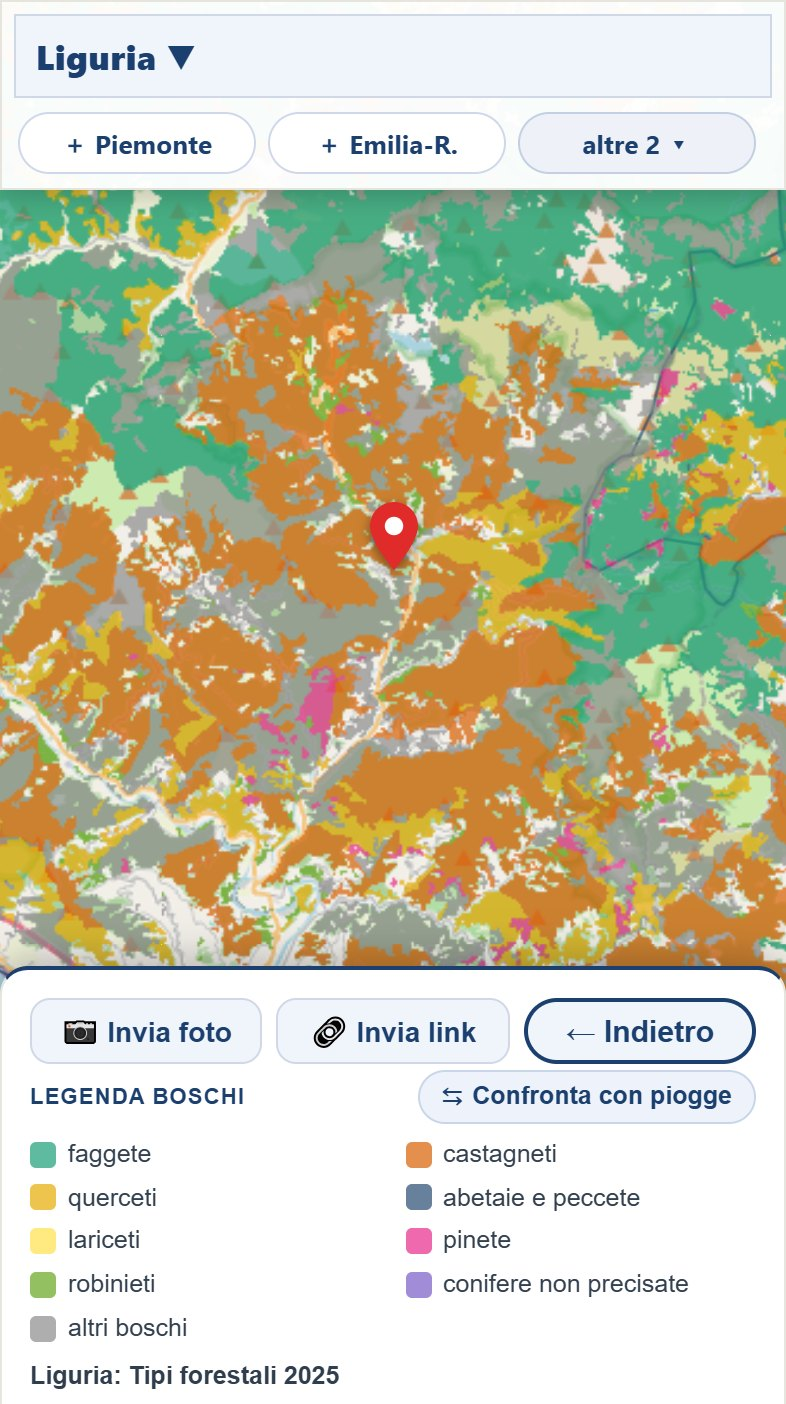
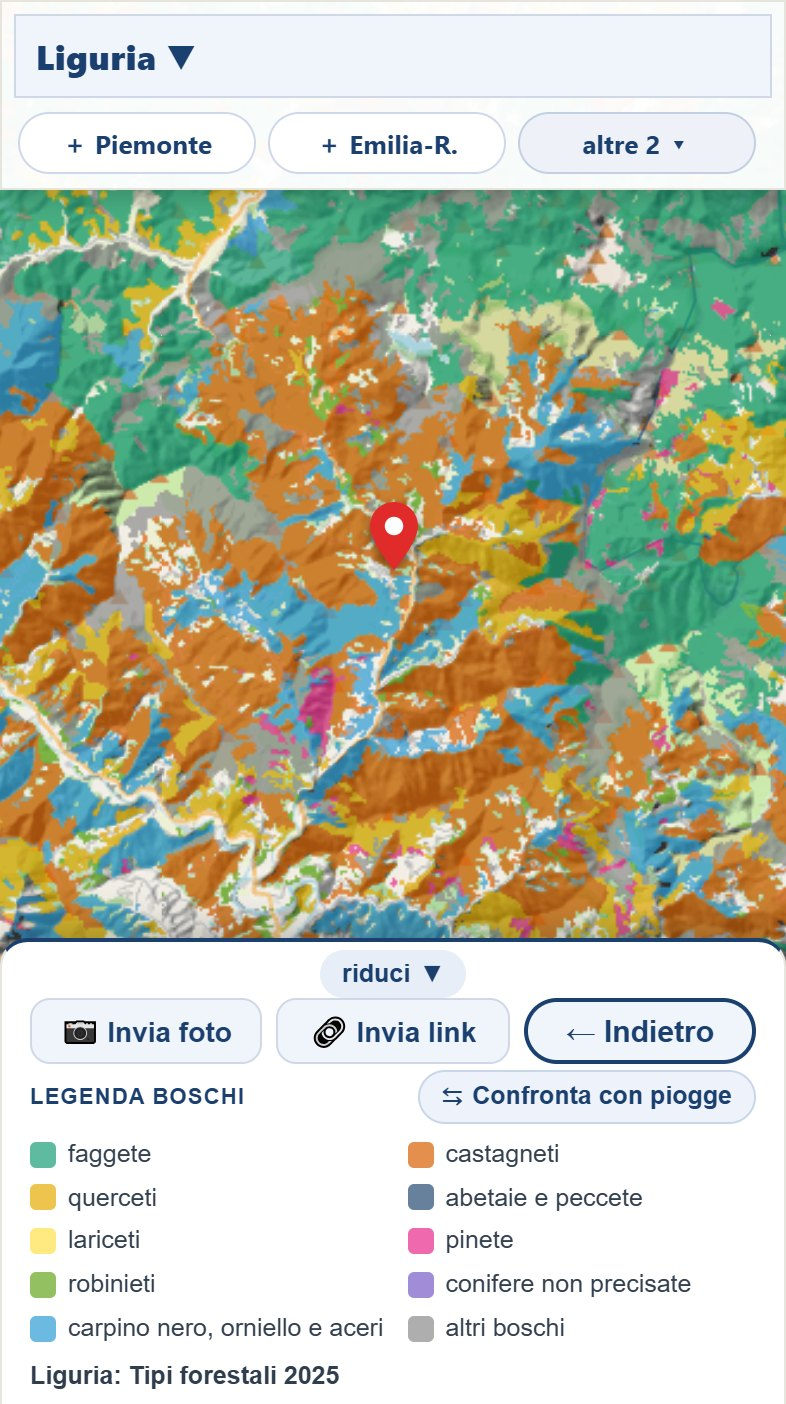
Guida del rilievo, credito TINITALY, rilievo subito anche a zoom frazionari
- Guida, sezione «La mappa boschi»: novita' del 24/9, dieci gruppi,
  «Toccando un punto», «Confrontare pioggia e boschi», «Il rilievo», tabella
  con carpino nero e conifere non precisate; foto rifatte col rilievo e una
  nuova della nuvoletta.
- Crediti della mappa e fonti.html: TINITALY 1.1, INGV (CC BY 4.0), che serve
  rilievo, quota, versante e pendenza e non era citato.
- Il rilievo non usa piu' redraw(): quello di Leaflet non arrotonda lo zoom,
  e a zoom 7,25 o 11,25 chiedeva tessere inesistenti fino allo zoom seguente.

diff --git a/guida/index.html b/guida/index.html
@@ -257,8 +257,9 @@ td:first-child{font-weight:600;color:#2c3e54;white-space:nowrap}
      Si tengono le ultime otto o nove e si aggiorna la data del titolo. -->
 <div class="upd">
   <div class="tit"><span class="tag">NOVITÀ</span><b>Ultimi aggiornamenti</b>
-    <span class="quando">19 settembre 2026</span></div>
+    <span class="quando">24 settembre 2026</span></div>
   <ul>
+    <li><span class="data">24 set</span><span><a href="#boschi">Il rilievo nella mappa boschi</a>: monti e valli in ombra sotto i colori, e toccando un punto leggi quota, versante e pendenza.</span></li>
     <li><span class="data">19 set</span><span><a href="#boschi">La mappa boschi in tutta Italia</a>: ventuno regioni, e un tocco su un punto ti dice che bosco è.</span></li>
     <li><span class="data">19 set</span><span><a href="#boschi">Confronta pioggia e boschi</a>: trascini la barra, a sinistra dove ha piovuto e a destra che bosco c'è.</span></li>
     <li><span class="data">18 set</span><span><a href="#boschi">La mappa boschi al Sud</a>: da oggi anche in Abruzzo, Puglia, Basilicata e Sicilia, tredici regioni in tutto.</span></li>
@@ -267,7 +268,6 @@ td:first-child{font-weight:600;color:#2c3e54;white-space:nowrap}
     <li><span class="data">13 set</span><span><a href="#pagine">Dove ha piovuto, zona per zona</a>: la pioggia di ieri, degli ultimi 7 e 30 giorni in Garfagnana, Val Trebbia, Sila e altre centoundici zone.</span></li>
     <li><span class="data">12 set</span><span><a href="#misure">Quanto forte è piovuto</a>: per ogni giornata di pioggia forte, in quante ore è caduta e la punta in un'ora.</span></li>
     <li><span class="data">9 set</span><span><a href="#pagine">Il nuovo indice «Piogge per funghi»</a>, con la classifica delle località più bagnate d'Italia.</span></li>
-    <li><span class="data">3 set</span><span><a href="#pagine">Le pagine di zona</a>: Garfagnana, Val Trebbia, Sila e altre centodieci, ognuna coi suoi pluviometri.</span></li>
   </ul>
 </div>
 
@@ -455,13 +455,13 @@ td:first-child{font-weight:600;color:#2c3e54;white-space:nowrap}
 <p class="mini">La fonte è il composito radar europeo EUMETNET OPERA, 155 radar in 24 paesi, servito dal progetto aperto LibreWXR.</p>
 
 <h2 id="boschi"><span class="n">11</span>La mappa boschi</h2>
-<p>La pioggia dice <i>quando</i> andare, il bosco dice <i>dove</i>: faggete, castagneti, querceti e abetaie non danno gli stessi funghi. Il tasto <span class="ui">🌲 Mappa boschi</span>, accanto a quello del radar, cambia modo: la pioggia e i pallini spariscono, e <b>i boschi si colorano per tipo</b>, in otto gruppi.</p>
+<p>La pioggia dice <i>quando</i> andare, il bosco dice <i>dove</i>: faggete, castagneti, querceti e abetaie non danno gli stessi funghi. Il tasto <span class="ui">🌲 Mappa boschi</span>, accanto a quello del radar, cambia modo: la pioggia e i pallini spariscono, e <b>i boschi si colorano per tipo</b>, in dieci gruppi, sopra il rilievo di monti e valli.</p>
 
 <div class="bosco"><b>Vale solo per alcune regioni.</b> Per ora la mappa boschi c'è in ventuno: <b>Piemonte, Valle d'Aosta, Lombardia, Trentino, Alto Adige, Veneto, Friuli Venezia Giulia, Liguria, Emilia-Romagna, Lazio, Abruzzo, Puglia, Basilicata, Sicilia, Marche, Umbria, Molise, Campania, Calabria, Toscana e Sardegna</b>. In Basilicata la carta è meno dettagliata: si vedono le macchie di bosco, non il singolo bosco. In Marche, Umbria, Molise, Campania, Calabria, Toscana e Sardegna la fonte non è una carta forestale della Regione ma la <b>Carta della Natura di ISPRA</b>, che descrive gli habitat: i tipi di bosco ci sono tutti, raccolti negli stessi colori. In Toscana e Sardegna quella carta è a scala 1:50.000, quindi meno fine; se la Regione pubblicherà una carta forestale più dettagliata, la useremo. Nelle altre regioni, e all'estero, i colori non ci sono e la legenda lo dice: «carta non ancora disponibile». Non riempiamo i vuoti con carte approssimative: una regione entra quando c'è una carta dei tipi di bosco abbastanza precisa.</div>
 
 <figure class="media">
-  <img src="boschi.jpg" alt="La mappa boschi in Val d'Aveto, fra Liguria ed Emilia: faggete in verde, castagneti in arancio, querceti in ocra, col pannello della legenda" width="1000" height="663" loading="lazy">
-  <figcaption>La Val d'Aveto, a cavallo fra Liguria ed Emilia: faggete in verde, castagneti in arancio, querceti in ocra. Sotto la legenda, le due carte usate. Al confine fra le due regioni le carte si uniscono senza stacchi.</figcaption>
+  <img src="boschi.jpg" alt="La mappa boschi in Val d'Aveto, fra Liguria ed Emilia: faggete in verde, castagneti in arancio, querceti in ocra sopra il rilievo, col pannello della legenda" width="1000" height="702" loading="lazy">
+  <figcaption>La Val d'Aveto, a cavallo fra Liguria ed Emilia: faggete in verde, castagneti in arancio, querceti in ocra, e sotto i colori il rilievo delle valli. Sotto la legenda, le due carte usate. Al confine fra le due regioni le carte si uniscono senza stacchi.</figcaption>
 </figure>
 
 <h3>Come si usa</h3>
@@ -469,9 +469,27 @@ td:first-child{font-weight:600;color:#2c3e54;white-space:nowrap}
 <p>Anche le pagine di paese e di zona delle regioni coperte hanno il tasto <span class="ui">Guarda i boschi</span>, che apre la mappa boschi già centrata su quel posto.</p>
 
 <figure class="stretta">
-  <img src="boschi-telefono.jpg" alt="La mappa boschi dal telefono intorno a Borzonasca, col segnaposto rosso e sotto la legenda degli otto gruppi" width="786" height="1272" loading="lazy">
-  <figcaption>Dal telefono, intorno a Borzonasca: castagneti in arancio sui versanti, faggete in verde più in là. Sotto la legenda e il nome della carta.</figcaption>
+  <img src="boschi-telefono.jpg" alt="La mappa boschi dal telefono intorno a Borzonasca, col segnaposto rosso, il rilievo sotto i colori e sotto la legenda dei dieci gruppi" width="786" height="1404" loading="lazy">
+  <figcaption>Dal telefono, intorno a Borzonasca: castagneti in arancio sui versanti, faggete in verde più in là, e il rilievo che fa leggere le valli. Sotto la legenda e il nome della carta.</figcaption>
 </figure>
+
+<h3>Toccando un punto</h3>
+<p>Tocca un punto qualsiasi della mappa: si apre una nuvoletta che ti dice <b>che bosco c'è</b> e tre cose sul terreno.</p>
+<ul>
+  <li><b>Quota</b>: i metri sul livello del mare di quel punto.</li>
+  <li><b>Versante</b>: da che parte guarda il pendio, in otto direzioni, per esempio «a sud-est». Sotto, una riga dice cosa vuol dire per l'umidità: un versante a nord tiene l'umido, uno a sud prende il sole e asciuga prima.</li>
+  <li><b>Pendenza</b>: quanto è ripido, in gradi. 0° è il piano; sotto i 6° la nuvoletta scrive «pianeggiante».</li>
+</ul>
+<p>Versante e pendenza non sono quelli del punto esatto sotto il dito, che può cadere su un masso o in una buca: sono quelli del fianco della valle intorno, misurati su 250 metri per parte. Per chi cerca funghi conta quello.</p>
+<p>In fondo c'è il tasto <span class="ui">Apri su Google Maps</span>: apre quel punto su Google Maps, dove puoi salvarlo, guardarlo dal satellite o farti portare. La strada non te la diamo noi: il punto che hai toccato può essere un dirupo, e come arrivarci lo decidi tu.</p>
+
+<figure class="stretta">
+  <img src="boschi-nuvoletta.jpg" alt="La nuvoletta aperta toccando un castagneto vicino a Borzonasca: quota 208 metri, versante a sud-est, pendenza 28 gradi, sole del mattino, e il tasto Apri su Google Maps" width="786" height="744" loading="lazy">
+  <figcaption>Un tocco su un castagneto vicino a Borzonasca: 208 metri, versante a sud-est con 28° di pendenza, cioè sole del mattino e terreno che asciuga. Sotto, il tasto per aprire il punto su Google Maps.</figcaption>
+</figure>
+
+<h3>Confrontare pioggia e boschi</h3>
+<p>Con un periodo di pioggia già scelto, tocca <span class="ui">⇆ Confronta con piogge</span>: compare una barra da trascinare. A sinistra vedi dove ha piovuto, a destra che bosco c'è, e muovendo la barra li confronti sullo stesso posto.</p>
 
 <table>
 <thead><tr><th>Colore</th><th>Che cosa mette insieme</th></tr></thead>
@@ -483,12 +501,18 @@ td:first-child{font-weight:600;color:#2c3e54;white-space:nowrap}
 <tr><td>lariceti</td><td>larice e larice con cembro</td></tr>
 <tr><td>pinete</td><td>pino silvestre, nero, marittimo, domestico e d'Aleppo</td></tr>
 <tr><td>robinieti</td><td>i boschi di robinia</td></tr>
-<tr><td>altri boschi</td><td>tutto il resto: carpino nero e orniello, latifoglie miste, ontani e salici lungo i fiumi, mughete d'alta quota, e arbusteti e macchia dove la carta li conta</td></tr>
+<tr><td>carpino nero, orniello e aceri</td><td>i boschi di carpino nero e orniello, che le carte chiamano orno-ostrieti</td></tr>
+<tr><td>conifere non precisate</td><td>conifere di cui la carta non dice la specie</td></tr>
+<tr><td>altri boschi</td><td>tutto il resto: latifoglie miste, ontani e salici lungo i fiumi, mughete d'alta quota, e arbusteti e macchia dove la carta li conta</td></tr>
 </tbody>
 </table>
 
+<h3>Il rilievo</h3>
+<p>Sotto i colori c'è il rilievo: le ombre dei monti, come se il sole arrivasse da nord-ovest. Viene da <b>TINITALY</b>, il modello del terreno d'Italia a 10 metri dell'INGV, lo stesso da cui ricaviamo quota, versante e pendenza. Da lontano le montagne sono un po' esagerate, apposta: senza, a quella distanza le ombre sparirebbero. Il rilievo c'è solo in Italia, perché il modello finisce al confine.</p>
+<p>Sulla mappa della pioggia invece non c'è, e non è una svista: le ombre sotto i colori della pioggia li farebbero sembrare più scuri, cioè più millimetri di quelli caduti davvero.</p>
+
 <h3>Quanto è precisa</h3>
-<p>I disegni sono quelli delle <b>carte forestali delle Regioni</b>, fatte sulle foto aeree con un dettaglio che arriva al singolo versante. Ogni Regione però usa le sue categorie, che abbiamo raggruppato noi nei nove colori. Un colore dice un albero: «pinete» sono solo i boschi di pini, «abetaie e peccete» solo quelli di abeti e pecci. Dove la carta dice soltanto «conifere», senza la specie, il bosco va in «conifere non precisate»: sappiamo che sono conifere, non se sono abeti o pini, e non tiriamo a indovinare. Fanno eccezione le <b>riserve naturali biogenetiche dello Stato</b> nate per una specie, come Abetone, Vallombrosa e Camaldoli per l'abete bianco o Trenta Coste in Sila per il pino laricio: lì dentro usiamo la specie della riserva. E se conosci un bosco che sulla mappa ha il colore sbagliato, <a href="/fonti.html#feedback">scrivicelo</a>: le carte le correggiamo man mano, anche grazie alle vostre segnalazioni. Le carte poi non hanno tutte la stessa età: si va da quella del Veneto, aggiornata al 2005, a quella della Liguria, del 2025. Quale carta stai guardando lo dice la riga sotto la legenda, e l'elenco completo, con le licenze, sta in <a href="/fonti.html">Fonti e licenze</a>.</p>
+<p>I disegni sono quelli delle <b>carte forestali delle Regioni</b>, fatte sulle foto aeree con un dettaglio che arriva al singolo versante. Ogni Regione però usa le sue categorie, che abbiamo raggruppato noi nei dieci colori. Un colore dice un albero: «pinete» sono solo i boschi di pini, «abetaie e peccete» solo quelli di abeti e pecci. Dove la carta dice soltanto «conifere», senza la specie, il bosco va in «conifere non precisate»: sappiamo che sono conifere, non se sono abeti o pini, e non tiriamo a indovinare. Fanno eccezione le <b>riserve naturali biogenetiche dello Stato</b> nate per una specie, come Abetone, Vallombrosa e Camaldoli per l'abete bianco o Trenta Coste in Sila per il pino laricio: lì dentro usiamo la specie della riserva. E se conosci un bosco che sulla mappa ha il colore sbagliato, <a href="/fonti.html#feedback">scrivicelo</a>: le carte le correggiamo man mano, anche grazie alle vostre segnalazioni. Le carte poi non hanno tutte la stessa età: si va da quella del Veneto, aggiornata al 2005, a quella della Liguria, del 2025. Quale carta stai guardando lo dice la riga sotto la legenda, e l'elenco completo, con le licenze, sta in <a href="/fonti.html">Fonti e licenze</a>.</p>
 <p>Due avvertenze oneste. Il bosco della carta è quello di quando la carta è stata fatta: un taglio o un incendio recenti non ci sono. E la carta dice <b>che bosco c'è, non se ci sono i funghi</b>: per quello servono la pioggia al momento giusto, la temperatura e un giro a piedi.</p>
 
 <h2 id="condividere"><span class="n">12</span>Condividere</h2>

diff --git a/fonti.html b/fonti.html
@@ -109,6 +109,7 @@ td a:hover{text-decoration:underline}
 <tr><td>Cartografia di base</td><td><a href="https://www.openstreetmap.org/copyright" target="_blank" rel="noopener">© OpenStreetMap contributors</a></td><td>ODbL</td></tr>
 <tr><td>Confini regionali</td><td><a href="https://github.com/openpolis/geojson-italy" target="_blank" rel="noopener">openpolis / geojson-italy</a> (da dati ISTAT)</td><td>dati aperti</td></tr>
 <tr><td>Confine del Ticino</td><td><a href="https://www.swisstopo.admin.ch" target="_blank" rel="noopener">swisstopo — swissBOUNDARIES3D</a></td><td>open government data</td></tr>
+<tr><td>Rilievo, quota, versante e pendenza</td><td><a href="https://doi.org/10.13127/tinitaly/1.1" target="_blank" rel="noopener">TINITALY 1.1</a>, modello altimetrico d'Italia a 10 metri: Tarquini S., Isola I., Favalli M., Battistini A., Dotta G. (2023), Istituto Nazionale di Geofisica e Vulcanologia (INGV)</td><td>CC BY 4.0. Serve alla «Mappa boschi»: l'ombreggiatura del rilievo e, toccando un punto, quota, versante e pendenza. Copre solo l'Italia; il rilievo è ricavato da noi dal modello, e ai livelli di zoom più lontani le quote sono esagerate perché si legga</td></tr>
 <tr><td>Libreria mappa</td><td><a href="https://leafletjs.com" target="_blank" rel="noopener">Leaflet</a></td><td>BSD-2</td></tr>
 <tr><td>Radar «Diretta radar»</td><td><a href="https://librewxr.net/" target="_blank" rel="noopener">LibreWXR</a>, che serve il composito radar europeo <a href="https://www.eumetnet.eu/" target="_blank" rel="noopener">EUMETNET OPERA</a> (155 radar, 24 paesi)</td><td>CC BY 4.0. Alimenta il tasto «Diretta radar»: la pioggia in corso, le ultime due ore e i quaranta minuti seguenti. È una misura radar a 2 km di risoluzione, quindi <b>non sostituisce i pluviometri</b>, che restano la fonte di tutto il resto del sito; la previsione a 40 minuti è dichiarata come tale e non è una misura</td></tr>
 <tr><td>Ricerca per località</td><td><a href="https://open-meteo.com/en/docs/geocoding-api" target="_blank" rel="noopener">Open-Meteo Geocoding API</a>, che pubblica i nomi di <a href="https://www.geonames.org/" target="_blank" rel="noopener">GeoNames</a></td><td>CC BY 4.0. È la casella «Cerca località»: l'elenco dei comuni italiani sta nel sito, mentre le frazioni e i posti di Svizzera, Austria, Slovenia e Francia si chiedono a loro. Serve a <b>trovare un posto sulla mappa</b>, non è una fonte di misure</td></tr>

diff --git a/index.html b/index.html
@@ -12299,11 +12299,14 @@ body.senza-pallini #map .leaflet-marker-pane .loc-pin svg{display:block}
     if(creditoBoschi){ ac.removeAttribution(creditoBoschi); creditoBoschi=null; }
     if(!acceso) return;
     var rk=(window._regioniAttive?window._regioniAttive():[]).filter(function(k){ return indice.regioni[k]; });
-    if(!rk.length) return;
-    creditoBoschi='boschi: '+rk.map(function(k){
+    /* ⚠ IL RILIEVO VA CITATO (24/9/2026): TINITALY e' CC BY 4.0, e il rilievo
+       sta acceso in tutto il modo boschi, anche dove la carta dei boschi non
+       c'e'. Citazione presa dal DOI, non scritta a memoria. */
+    var ril='rilievo: <a href="https://doi.org/10.13127/tinitaly/1.1" target="_blank" rel="noopener">TINITALY 1.1, INGV</a> (CC BY 4.0)';
+    creditoBoschi=(rk.length ? 'boschi: '+rk.map(function(k){
       var r=indice.regioni[k];
       return '<a href="'+r.link+'" target="_blank" rel="noopener">'+r.fonte+'</a> ('+r.licenza+')';
-    }).join(', ');
+    }).join(', ')+', ' : '')+ril;
     ac.addAttribution(creditoBoschi);
   }
 
@@ -12426,7 +12429,13 @@ body.senza-pallini #map .leaflet-marker-pane .loc-pin svg{display:block}
       m.getPane('bo-rilievo').style.pointerEvents='none';
     }
     fetch(RILIEVO+'indice.json').then(function(r){ return r.json(); })
-      .then(function(j){ indRil=j; if(rilievo) rilievo.redraw(); })
+      /* ⚠ MAI rilievo.redraw() (24/9/2026): il redraw di Leaflet 1.9.4 NON
+         arrotonda lo zoom, e con lo zoom a quarti del sito (7,25, 11,25) lo
+         strato restava agganciato a tessere di zoom 11,25, che non esistono:
+         niente rilievo fino allo zoom successivo. Succedeva soprattutto sul
+         telefono, quando l'indice arrivava a strato gia' in mappa. Togliere e
+         rimettere lo strato passa da onAdd, che arrotonda. */
+      .then(function(j){ indRil=j; var m=map(); if(rilievo && m.hasLayer(rilievo)){ m.removeLayer(rilievo); rilievo.addTo(m); } })
       .catch(function(){ indRil=null; });
     var Ril=L.TileLayer.extend({
       getTileUrl:function(c){ return rilievoEsiste(c) ? RILIEVO+c.z+'/'+c.x+'/'+c.y+'.png' : VUOTA; }
